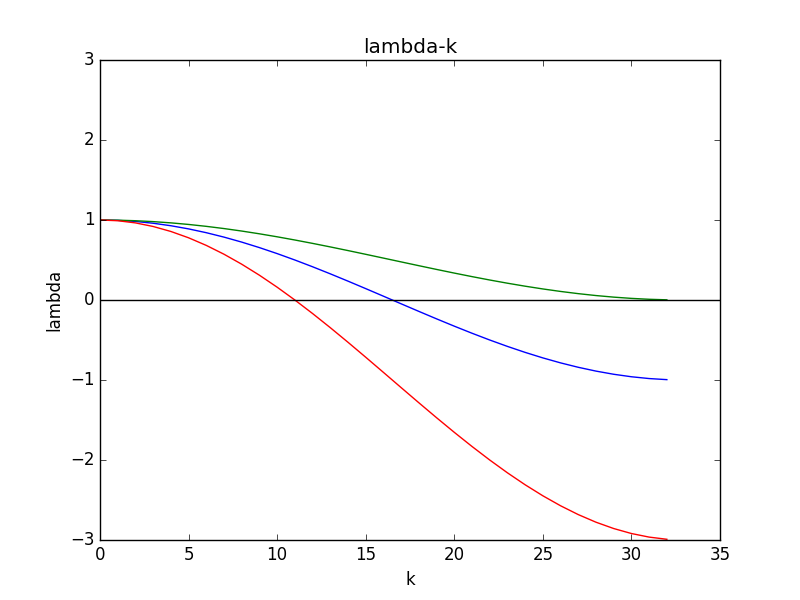
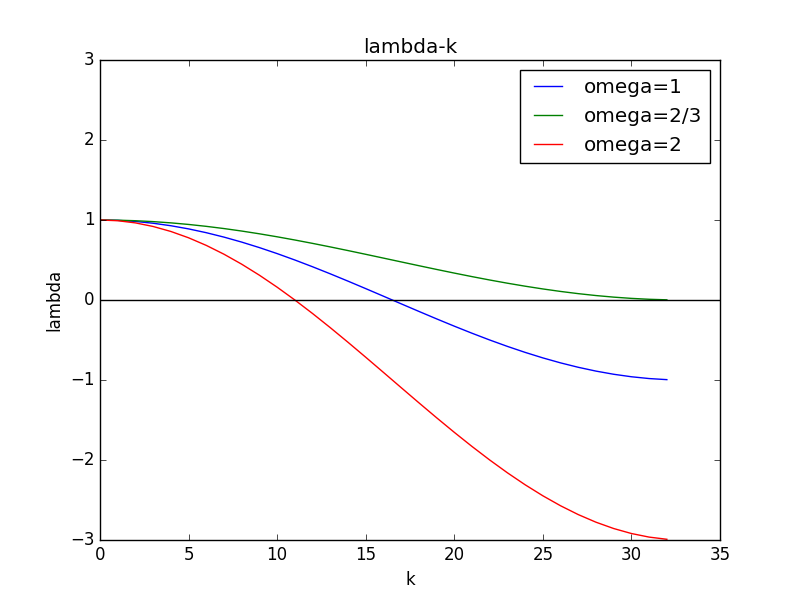
mod som img

Changed region(s): [[0.625, 0.09, 0.9062, 0.3]]

diff --git a/traindata/1dlambda_k.py b/traindata/1dlambda_k.py
@@ -26,7 +26,7 @@ plt.plot(range(0,res+1), omega2, label = 'omega=2')
 plt.axhline(0,color='black')
 plt.ylim(-3, 3)
 plt.legend()
-# plt.savefig('1dlambda_k.png',dpi=100)
-plt.show()
+plt.savefig('1dlambda_k.png',dpi=100)
+# plt.show()
 plt.close()
 
